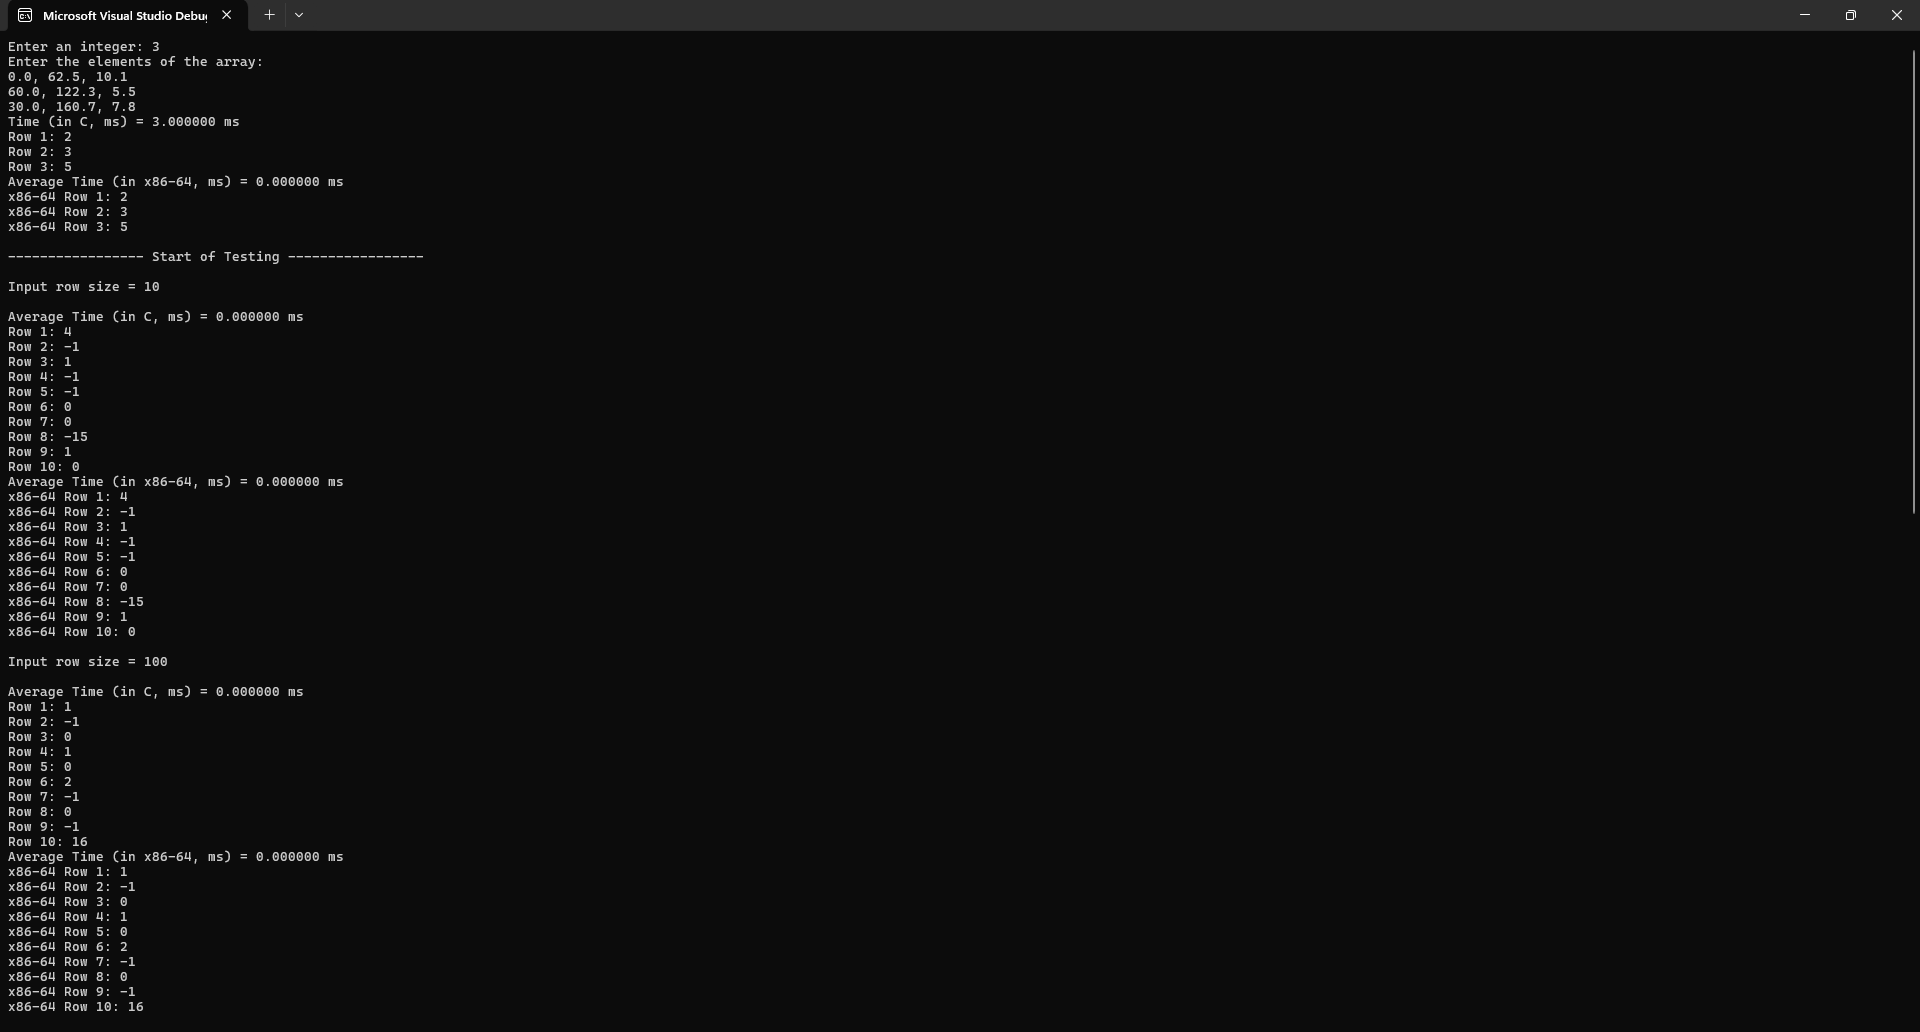
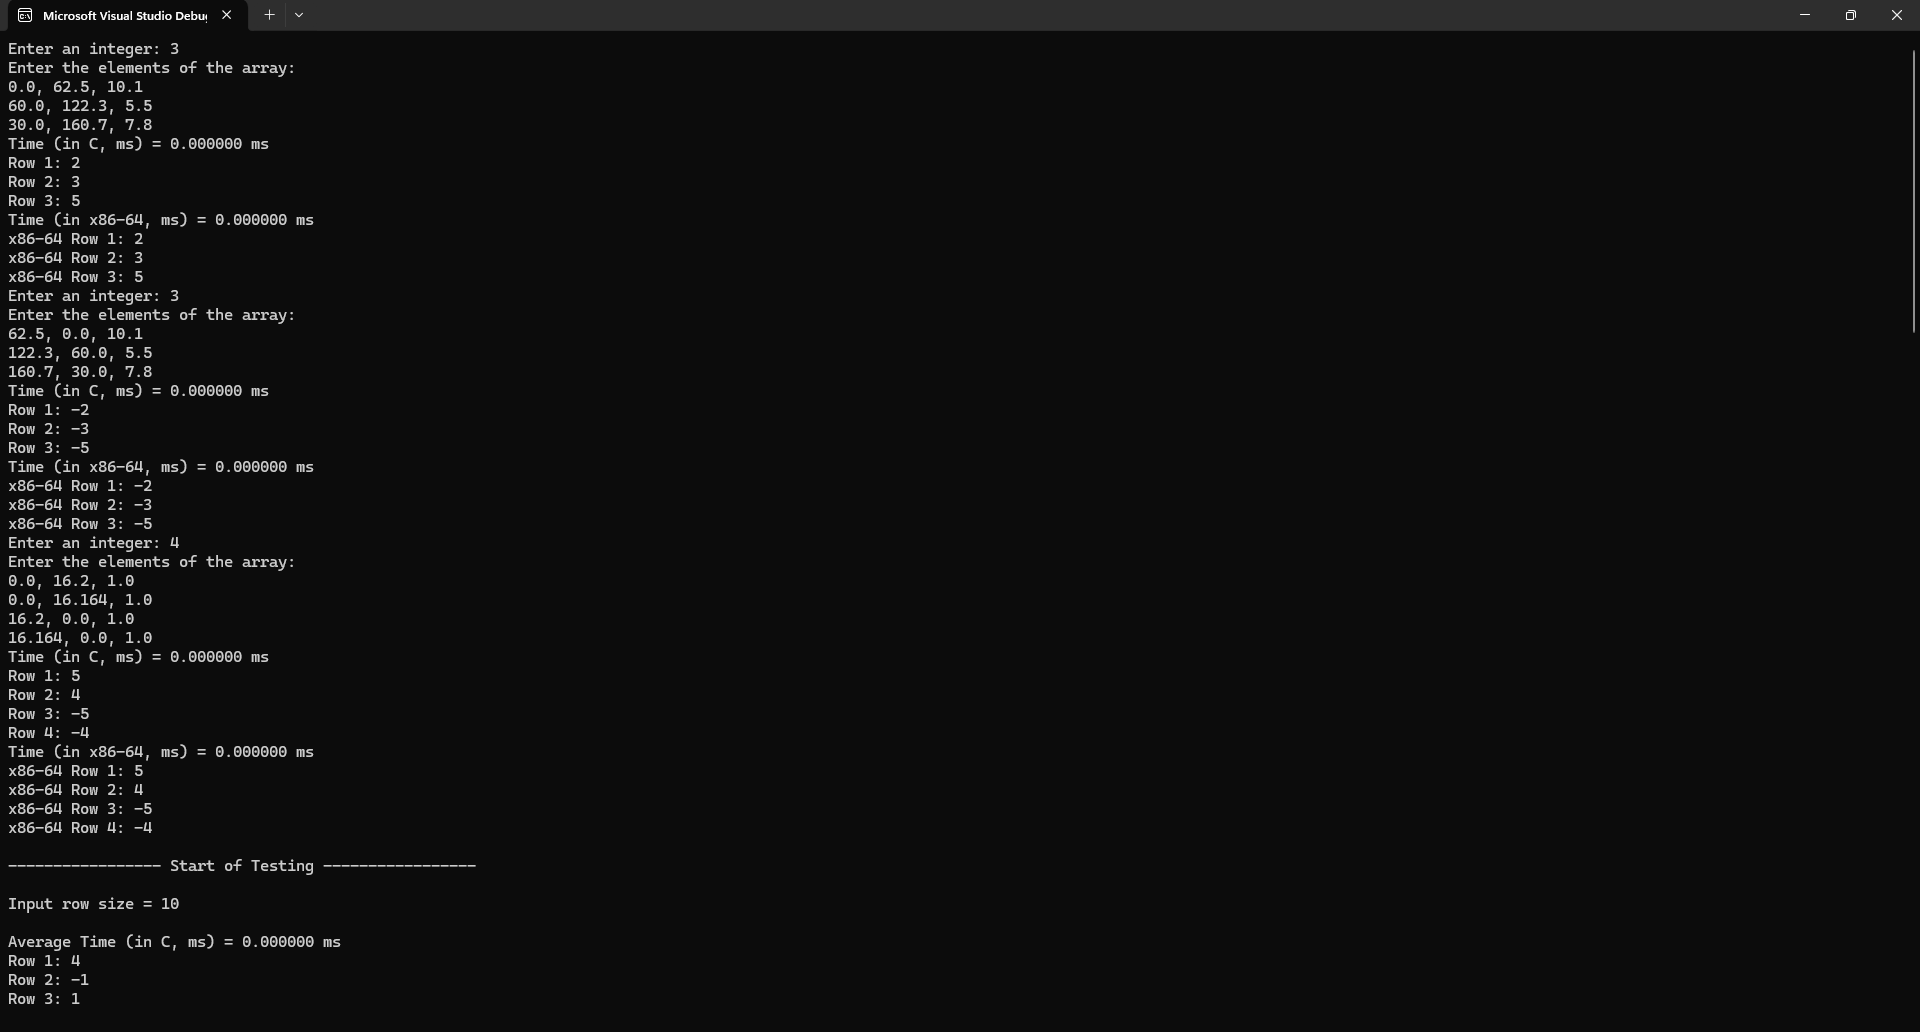
After recording files

Changed region(s): [[0.0, 0.031, 0.1875, 0.9922], [0.125, 0.155, 0.1875, 0.2171], [0.125, 0.6512, 0.1562, 0.6822]]

diff --git a/LBYARCH MP/main.c b/LBYARCH MP/main.c
@@ -20,7 +20,6 @@ void computeAcceleration(long long int y, int cols, float* array, int* output) {
 int main() {
 	long long int y;
 	int cols = 3;
-
 	printf("Enter an integer: ");
 	scanf_s("%lld", &y);
 
@@ -64,7 +63,7 @@ int main() {
 	x64Acceleration(y, array, output);
 	end = clock();
 	time_taken = ((double)(end - start) * 1000 / CLOCKS_PER_SEC);
-	printf("Average Time (in x86-64, ms) = %lf ms\n", time_taken);
+	printf("Time (in x86-64, ms) = %lf ms\n", time_taken);
 
 	for (int i = 0; i < y; i++)
 		printf("x86-64 Row %d: %d\n", i + 1, output[i]);
@@ -75,9 +74,9 @@ int main() {
 	// ----------------------------------------------------------------------------------------------------------- TESTINGGGG
 	printf("----------------- Start of Testing -----------------\n\n");
 
-	int input_y[6] = { 10, 100, 1000, 10000, 100000, 1000000 };
+	int input_y[4] = { 10, 100, 1000, 10000 };
 
-	for (int j = 0; j < 6; j++) {
+	for (int j = 0; j < 4; j++) {
 		printf("Input row size = %d \n\n", input_y[j]);
 		y = input_y[j];
 		long long int total_elements = y * cols;
@@ -88,10 +87,6 @@ int main() {
 		int* output = malloc(y * sizeof(int));
 
 		// -------------------------------------------------------------- Fill the array with values
-		/*printf("Enter the elements of the array:\n");
-		for (int i = 0; i < y * cols; i += 3) {
-			scanf_s("%f,%f,%f", &array[i], &array[i + 1], &array[i + 2]);
-		}*/
 		for (int i = 0; i < total_elements; i += 3) {
 			float randomFloat = ((float)rand() / RAND_MAX) * 100;
 			float randomFloat2 = ((float)rand() / RAND_MAX) * 100;
@@ -100,7 +95,7 @@ int main() {
 			array[i + 1] = randomFloat2;
 			array[i + 2] = randomTime;
 		}
-
+		//tihiuiuhiuh
 		// -------------------------------------------------------------- Initialize Clock
 		clock_t start, end;
 		double time_taken;
